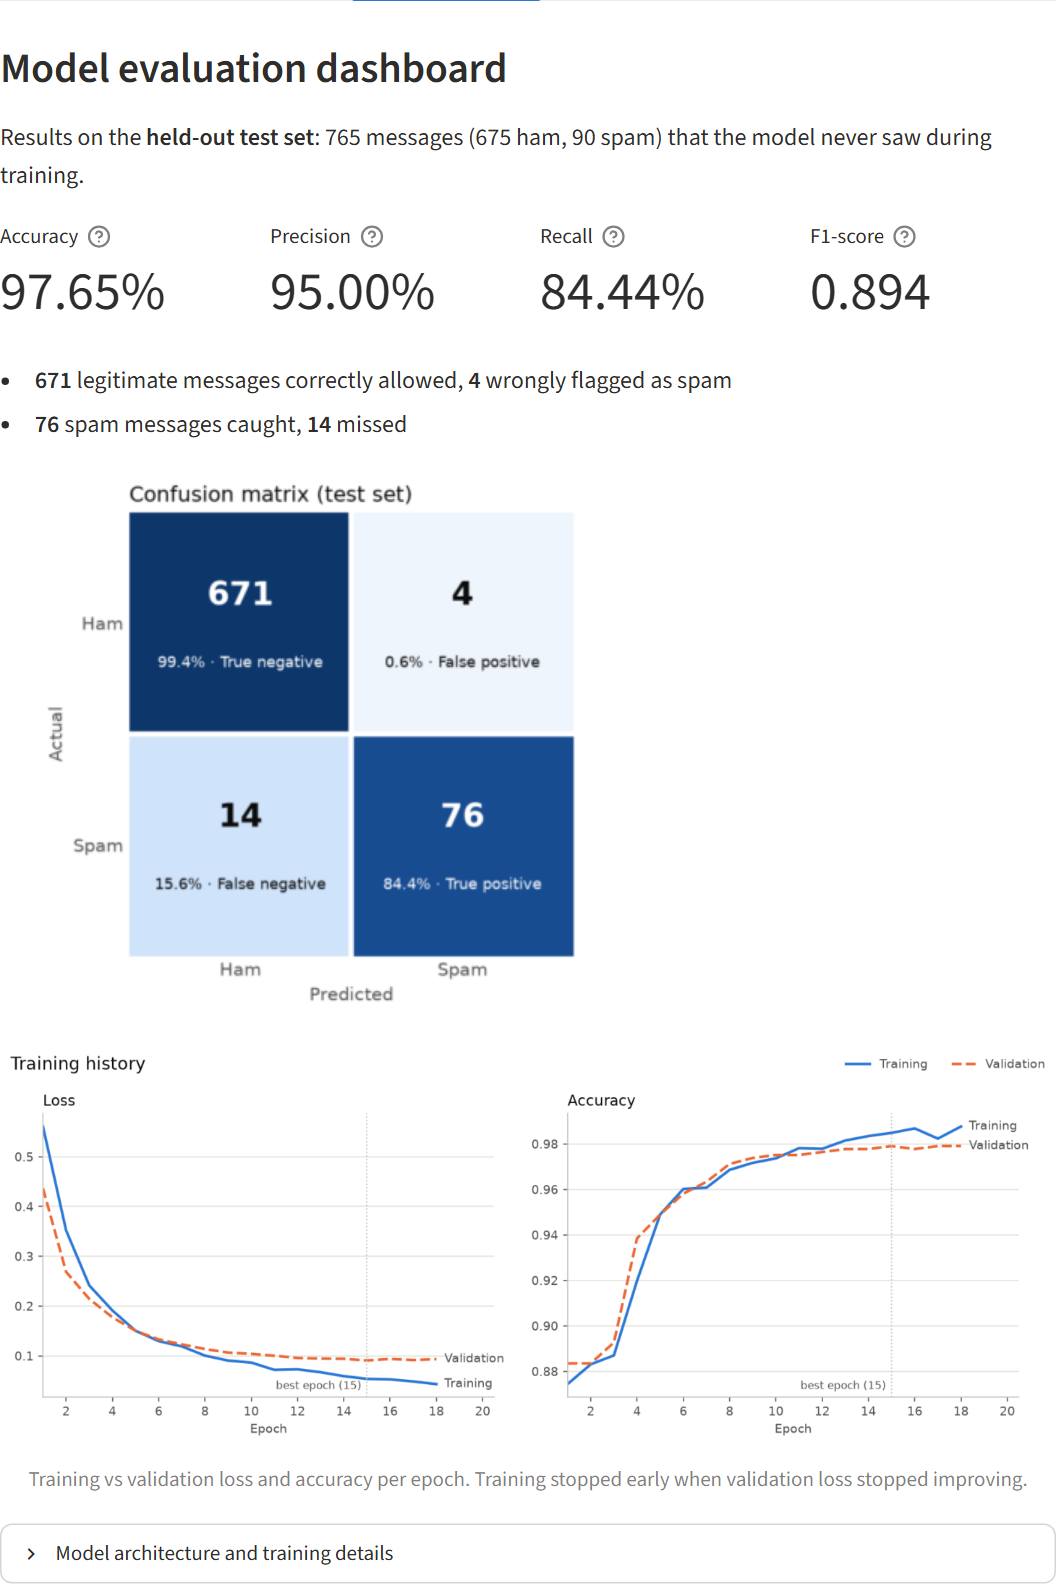
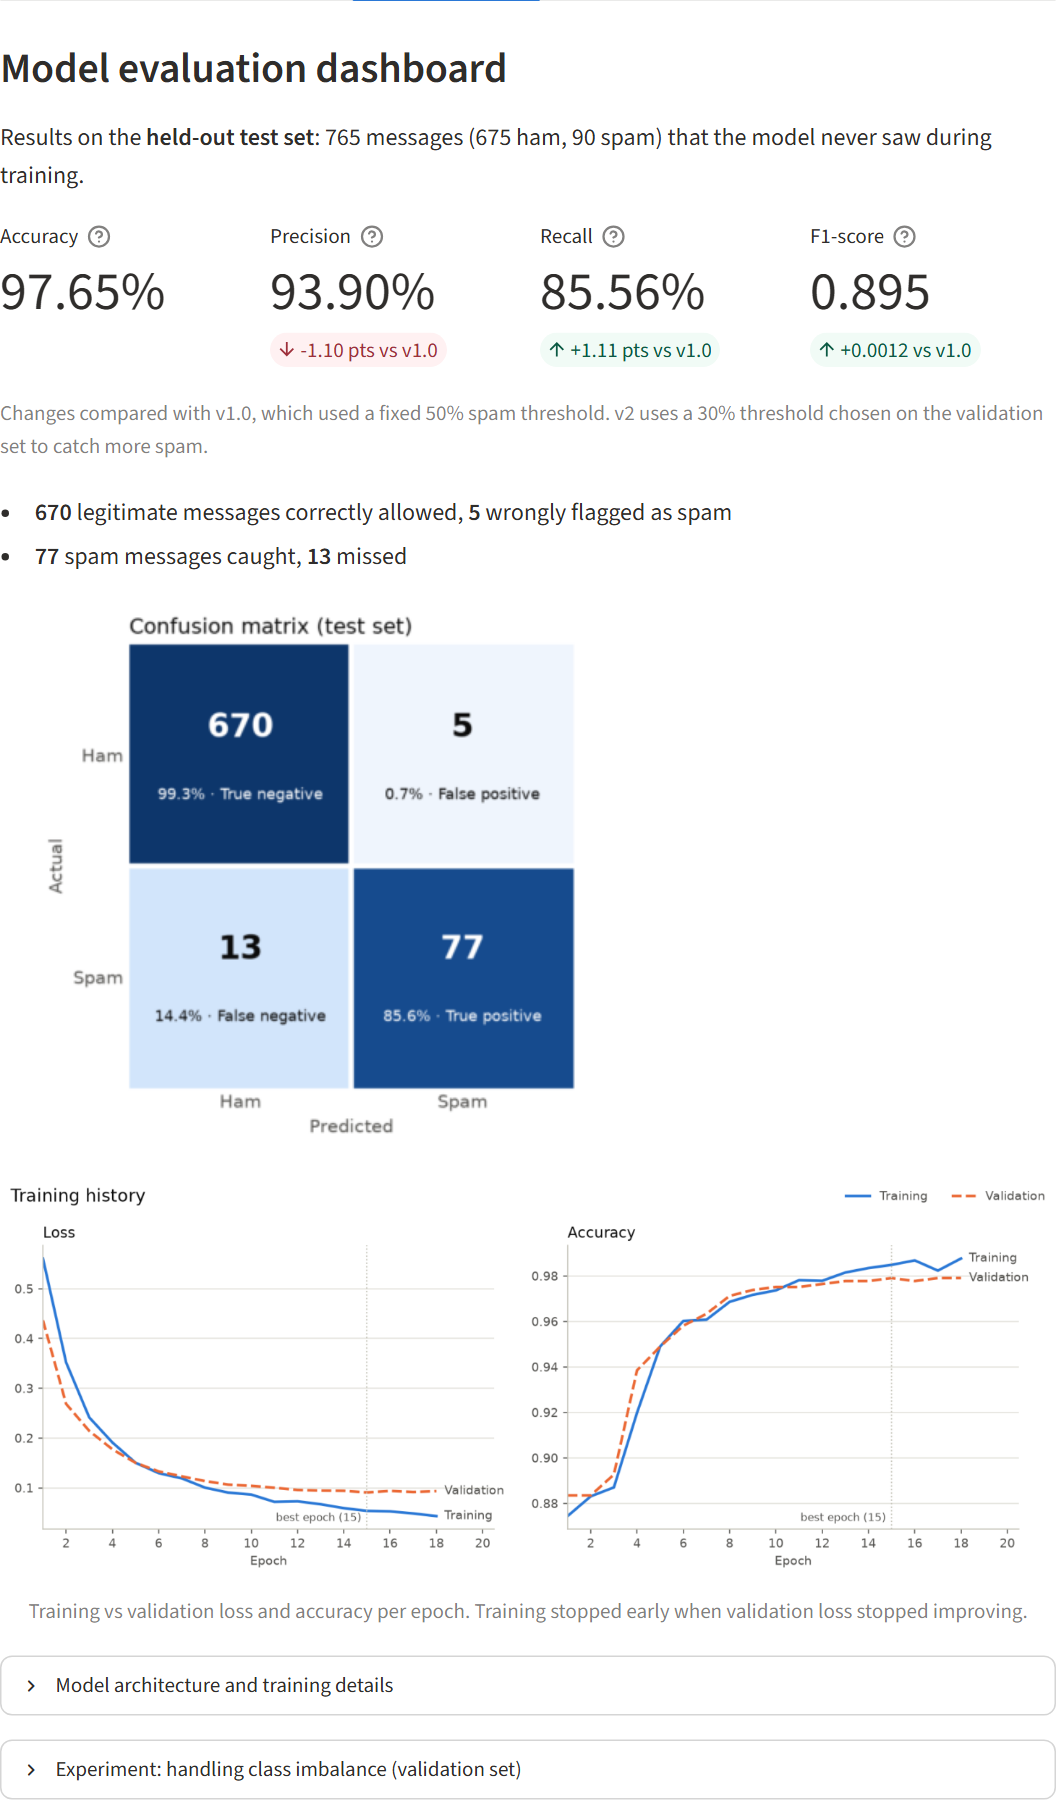
Update screenshots and add Link Safety Check screenshot
Recaptured from the running v2 app: scanner, the delivery-scam example where the link check flags a link the model rated HAM, batch CSV, and the dashboard with changes from v1.0.

diff --git a/README.md b/README.md
@@ -17,9 +17,15 @@ evaluation dashboard.
 
 ## Screenshots
 
-| Message scanner | Batch CSV with accuracy check |
+| Message scanner | Link Safety Check catches a scam the model missed |
 |---|---|
-| ![Message scanner](docs/screenshots/scanner.png) | ![Batch CSV](docs/screenshots/batch.png) |
+| ![Message scanner](docs/screenshots/scanner.png) | ![Link Safety Check](docs/screenshots/link_check.png) |
+
+<details>
+<summary><b>Batch CSV with accuracy check</b></summary>
+
+![Batch CSV](docs/screenshots/batch.png)
+</details>
 
 <details>
 <summary><b>Model evaluation dashboard</b></summary>
